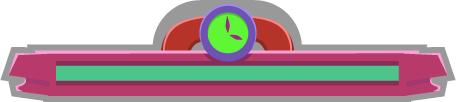
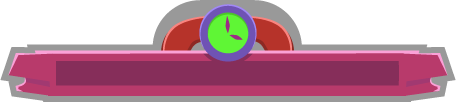
update toy figures

Changed region(s): [[0.1228, 0.6176, 0.8904, 0.7941]]

diff --git a/nonrefactored/ToyFigures/toyfigure/js/scenes/toyfigure.js b/nonrefactored/ToyFigures/toyfigure/js/scenes/toyfigure.js
@@ -48,13 +48,15 @@ var toyfigure = function(){
 	var heartsIcon;
 	var heartsText;	
 	var xpIcon;
-	var xpText;
 	var lives = 1;
 	var cursors;
 	var coins = 0;
-	var bgm = null;
 	var activeGame = true;
     var repizasArray = new Array;
+    var goodAnswer = 0;
+    var time = 61;
+    var timerBar = null;
+    var NumwebGame = 2;
 
     
     function getRandomArbitrary(min, max) {
@@ -83,6 +85,7 @@ var toyfigure = function(){
         game.load.image("floor",imagePath + "floor.png");
         game.load.image("clock",imagePath + "clock.png");
         game.load.image("star",imagePath + "star.png");
+        game.load.image("barra",imagePath + "barra.png");
 
 		/*SPINE*/
 		game.load.spine("dinamita", imagePath + "spine/dinamita.json");
@@ -124,8 +127,12 @@ var toyfigure = function(){
         bed.x = game.width - bed.width;
         bed.y = floor.y - bed.height/1.9;
         
+        var santo = sceneGroup.create(0,0,"atlas.toy","elsanto.png");
+        santo.x = game.width - santo.width* 1.2;
+        santo.y = bed.y - santo.height*1.1;        
+        
         var dinamita = game.add.spine(0,0,"dinamita");
-        dinamita.setAnimationByName(0, "LOSE", true);
+        dinamita.setAnimationByName(0, "IDLE", true);
 		dinamita.setSkinByName("normal");
         dinamita.scale.setTo(-1,1);
         dinamita.x =   bed.x - dinamita.width;
@@ -137,9 +144,12 @@ var toyfigure = function(){
         clock.x = game.world.centerX;
         clock.y = game.height - clock.height/1.5;
         
-        var santo = sceneGroup.create(0,0,"atlas.toy","elsanto.png");
-        santo.x = game.width - santo.width* 1.2;
-        santo.y = bed.y - santo.height*1.1;
+        var barra = sceneGroup.create(0,0,"barra");
+        barra.anchor.setTo(0,0.5);
+        barra.x = game.world.centerX - barra.width/2;
+        barra.y = game.height - clock.height/2.2; 
+        barra.scale.setTo(0,1);
+ 
         
         var newPositionRepiza = new Array;
         
@@ -178,14 +188,11 @@ var toyfigure = function(){
         for(var p = 0; p<= 17;p++){
             toysArray[p] = sceneGroup.create(-150,-150,"atlas.toy","toy" + p + ".png");
             toysArray[p].anchor.setTo(0.5,0.5);
-            toysArray[p].x = getRandomArbitrary(0 + toysArray[p].width/2, game.world.centerX - toysArray[p].width/2);
-            toysArray[p].y = getRandomArbitrary(floor.y , clock.y - toysArray[p].width/2);
+
 			this.game.physics.arcade.enable(toysArray[p]);
 			toysArray[p].inputEnabled = true;
 			toysArray[p].originalPosition = toysArray[p].position.clone();
-			toysArray[p].input.enableDrag();
-			toysArray[p].positionX = toysArray[p].x;
-			toysArray[p].positionY = toysArray[p].y;  
+			toysArray[p].input.enableDrag(); 
         }
         
        
@@ -243,41 +250,160 @@ toysArray[17].events.onDragStop.add(function(currentSprite){stopDrag(currentSpri
             if (!this.game.physics.arcade.overlap(currentSprite, endSprite, function() {
             currentSprite.input.draggable = false;
                 TweenMax.to(currentSprite,0.4,{x:endSprite.x,y:endSprite.y});
-                console.log("ok");
                 star.x = endSprite.x;
                 star.y = endSprite.y;
                 TweenMax.fromTo(star.scale,0.5,{x:1,y:1},{x:2,y:2});
                 TweenMax.fromTo(star,0.5,{alpha:1},{alpha:0});
                 TweenMax.to(currentSprite.scale,0.5,{x:0,y:0,delay:0.5});
-                
+                coins++;
+                xpText.setText(coins);
+                goodAnswer++;
+                moreToys();
+                sound.play("magic");
                 
           })) { 
                 if(currentSprite.y <= floor.y){
                     TweenMax.to(currentSprite,1,{x:currentSprite.positionX,y:currentSprite.positionY});
                 }
+                
+                if(currentSprite.x <= 0){
+                    TweenMax.to(currentSprite,1,{x:currentSprite.positionX,y:currentSprite.positionY});     
+                }
           }
           }        
         
        
+        function timerClock(){
+            timerBar = TweenMax.fromTo(barra.scale,time,{x:0},{x:1,onComplete:finishGame});
+        }
+        
+        function finishGame(){
+            for(var p = 0; p<= 17;p++){
+                toysArray[p].input.draggable = true;
+            }    
+            
+            TweenMax.to(game,1,{alpha:0,onComplete:gameOver});
+            sound.play("wrong");
+            sound.play("gameLose");
+            dinamita.setAnimationByName(0, "LOSE", true); 
+            bgm.stop();	
+        }	
+	
+		
+		function gameOver(){
+			var resultScreen = sceneloader.getScene("result")
+			resultScreen.setScore(true, coins,NumwebGame)
+			sceneloader.show("result");
+		}
+        
+        timerClock();
         
         function choiceToy(){
             
+            if(coins >= 18){
+                if(time <= 60){
+                   time = time - 20; 
+                }
+                timerClock();
+            }
+            
+            goodAnswer = 0;
+             for(var i = 0; i<=8;i++){
+                newPositionRepiza[i].x = -450;
+                newPositionRepiza[i].y = -450;
+             }
+            
+            
             shuffle(newPositionRepiza);
 
-             for(var i = 0; i<=5;i++){
+             for(var i = 0; i<=2;i++){
                  console.log(newPositionRepiza[i].id);
                 newPositionRepiza[i].x = eval("position" +[i] + "x");
                 newPositionRepiza[i].y = eval("position" +[i] + "y");  
+                TweenMax.fromTo(newPositionRepiza[i].scale,0.5,{x:0,y:0},{x:1,y:1,delay:i*0.2}); 
              }
  
+            
+            for(var p = 0; p<= 17;p++){
+                toysArray[p].scale.setTo(1,1);
+                toysArray[p].x = getRandomArbitrary(0 + toysArray[p].width/2, game.world.centerX - toysArray[p].width/2);
+                toysArray[p].y = getRandomArbitrary(floor.y , clock.y - toysArray[p].width/2);
+                toysArray[p].positionX = toysArray[p].x;
+                toysArray[p].positionY = toysArray[p].y;
+                toysArray[p].input.draggable = true;
+                TweenMax.fromTo(toysArray[p],1,{y:-150},{y:toysArray[p].positionY,delay:p*0.05,ease:Bounce.easeOut});
+            }
+            
         }
         
         choiceToy();
         
+        function moreToys(){
+            if(goodAnswer == 3){
+                
+                newPositionRepiza[3].x = eval("position" +[3] + "x");
+                newPositionRepiza[3].y = eval("position" +[3] + "y"); 
+                TweenMax.fromTo(newPositionRepiza[3].scale,0.5,{x:0,y:0},{x:1,y:1,delay:0.5});
+            }
+            if(goodAnswer == 6){
+                
+                newPositionRepiza[4].x = eval("position" +[4] + "x");
+                newPositionRepiza[4].y = eval("position" +[4] + "y"); 
+                TweenMax.fromTo(newPositionRepiza[4].scale,0.5,{x:0,y:0},{x:1,y:1,delay:0.5});
+            }   
+            if(goodAnswer == 9){
+                
+                newPositionRepiza[5].x = eval("position" +[5] + "x");
+                newPositionRepiza[5].y = eval("position" +[5] + "y"); 
+                TweenMax.fromTo(newPositionRepiza[5].scale,0.5,{x:0,y:0},{x:1,y:1,delay:0.5});
+            }   
+            if(goodAnswer == 12){
+                var changeToy = getRandomArbitrary(0,6)
+                newPositionRepiza[6].x = eval("position" +[changeToy] + "x");
+                newPositionRepiza[6].y = eval("position" +[changeToy] + "y"); 
+                TweenMax.fromTo(newPositionRepiza[changeToy].scale,0.3,{x:1,y:1},{x:0,y:0});
+                TweenMax.fromTo(newPositionRepiza[6].scale,0.5,{x:0,y:0},{x:1,y:1,delay:0.5});
+            }     
+            if(goodAnswer == 14){
+                var changeToy = getRandomArbitrary(0,6)
+                newPositionRepiza[7].x = eval("position" +[changeToy] + "x");
+                newPositionRepiza[7].y = eval("position" +[changeToy] + "y"); 
+                TweenMax.fromTo(newPositionRepiza[changeToy].scale,0.3,{x:1,y:1},{x:0,y:0});
+                TweenMax.fromTo(newPositionRepiza[7].scale,0.5,{x:0,y:0},{x:1,y:1,delay:0.5});
+            }       
+            if(goodAnswer == 16){
+                var changeToy = getRandomArbitrary(0,6)
+                newPositionRepiza[8].x = eval("position" +[changeToy] + "x");
+                newPositionRepiza[8].y = eval("position" +[changeToy] + "y"); 
+                TweenMax.fromTo(newPositionRepiza[changeToy].scale,0.3,{x:1,y:1},{x:0,y:0});
+                TweenMax.fromTo(newPositionRepiza[8].scale,0.5,{x:0,y:0},{x:1,y:1,delay:0.5});
+                
+            }   
+            
+            if(goodAnswer == 18){
+                TweenMax.fromTo(star.scale,3,{x:2,y:2},{x:4,y:4});
+                star.x = game.world.centerX;
+                star.y = game.world.centerY;
+                TweenMax.fromTo(star,3,{alpha:1},{alpha:0,onComplete:nextToys});
+                dinamita.setAnimationByName(0, "WIN", true);
+                if(timerBar != null){
+                   timerBar.kill(); 
+                }
+                
+                function nextToys(){
+                    sound.play("combo");
+                 choiceToy();   
+                dinamita.setAnimationByName(0, "IDLE", true);    
+                }
+                
+            }
+            
+        }
+        
         
 		createCoins(coins);
 		createHearts(lives);
-		//createOverlay();
+		createOverlay();
 		
 	}
 
